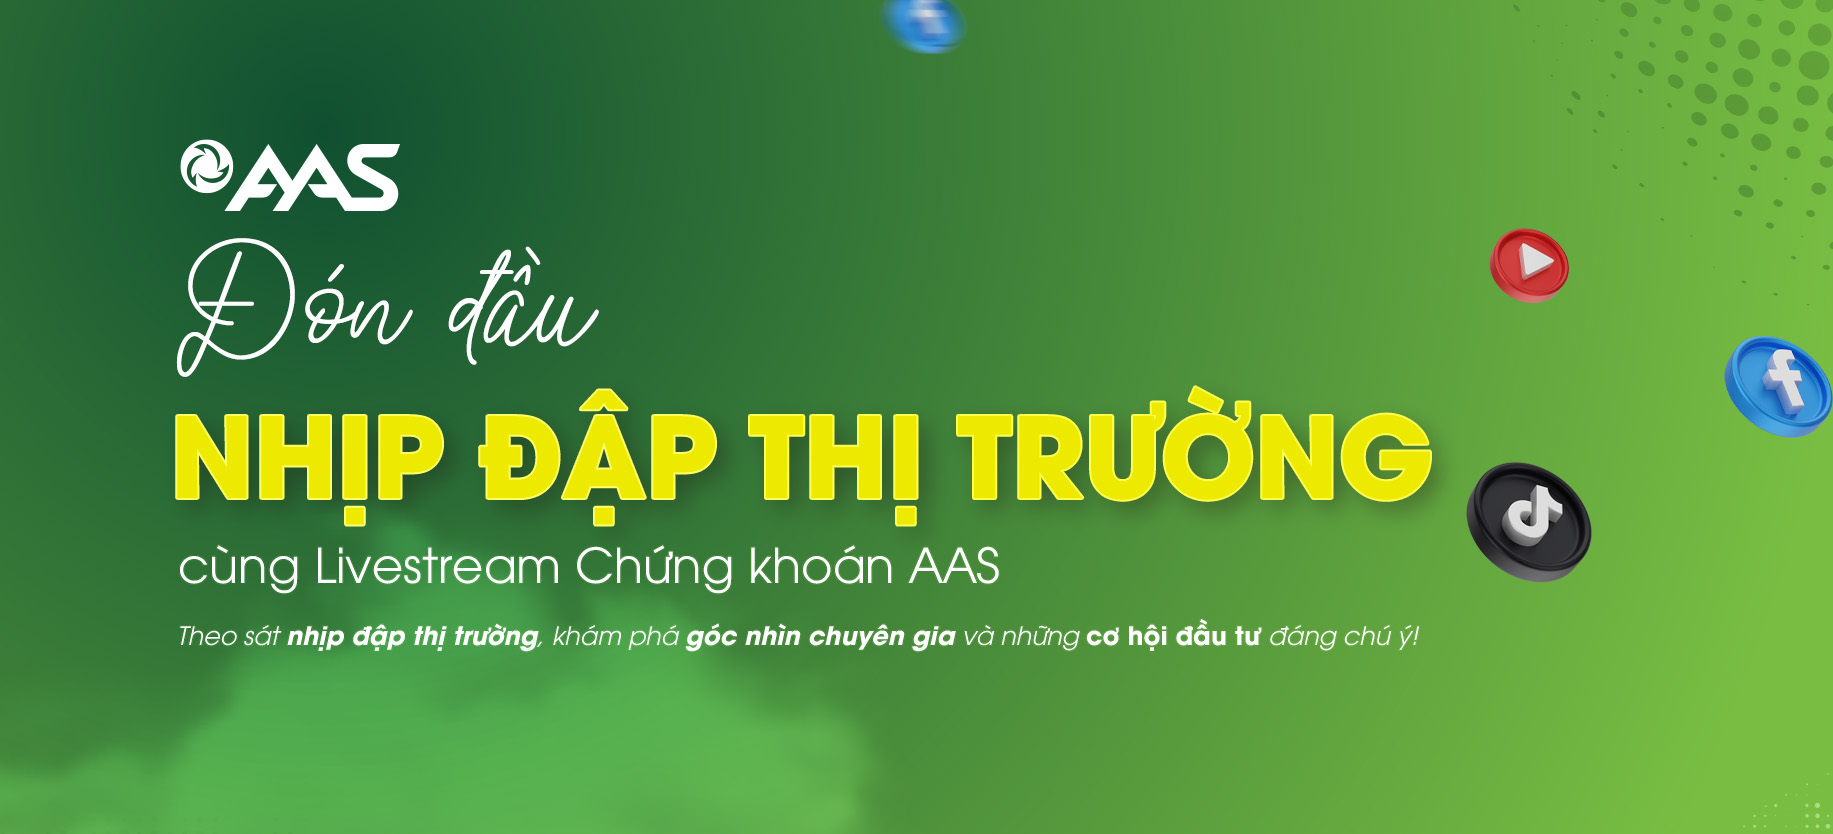
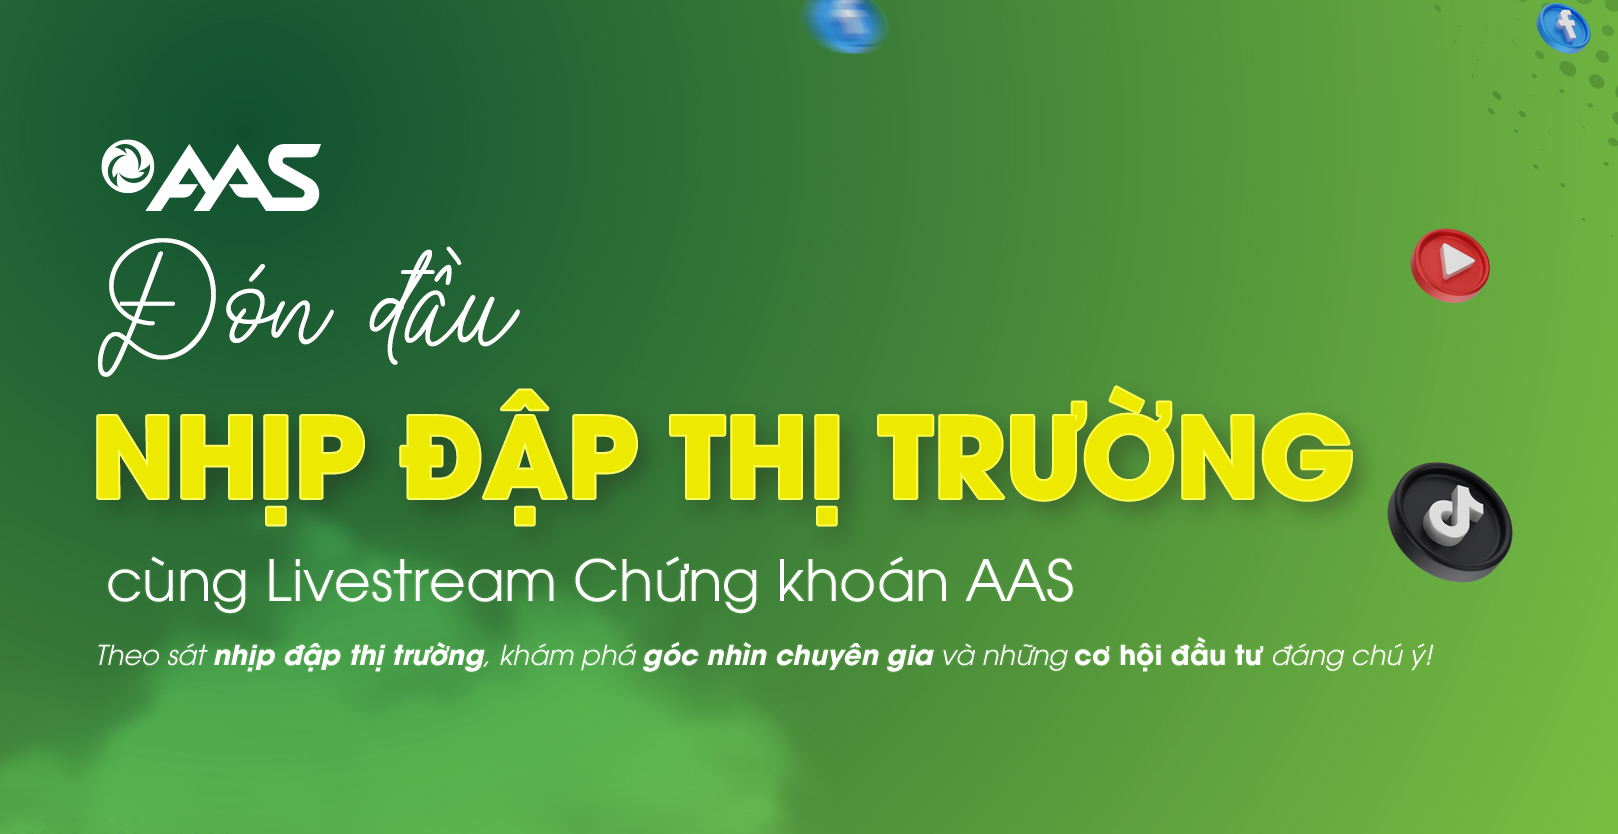
Update 25.05.2026 insert Pagination Dots

diff --git a/index.html b/index.html
@@ -13,7 +13,7 @@
 
     <title>AAS</title>
 </head>
-<body data-aos-easing="slide" data-aos-duration="800" data-aos-delay="0">
+<body data-aos-easing="slide" data-aos-duration="500" data-aos-delay="0">
 
     <!-- Phần Hero Banner: Ảnh bìa to trên cùng -->
     <!-- Đặt ảnh full width, hiển thị cover (object-fit) để không bị méo ảnh -->
@@ -340,11 +340,11 @@
         <div class="container">
 
             <div class="row justify-content-between align-items-center" style="margin: 1.5rem 0;">
-                <div class="col-lg-5 text-start">
-                    <h1 class="heading mb-0" data-aos="fade-up" data-aos-delay="100">
+                <div class="col-lg-5 text-start" style="align-content: center;">
+                    <h1 class="heading mb-0">
                         <span class="yellow-line">Xem</span> livestream
                     </h1>
-                    <div class="subtitle-nautigal" data-aos="fade-up" data-aos-delay="200">Nhận quà mỏi tay</div>
+                    <div class="subtitle-nautigal">Nhận quà mỏi tay</div>
                 </div>
                 <div class="col-lg-7">
                     <div class="img-wrap" data-aos="fade-left">
@@ -402,7 +402,7 @@
     <div class="section">
         <div class="container">
             <div class="row mb-3">
-                <div class="col-lg-12" data-aos="fade-up" data-aos-delay="0">
+                <div class="col-lg-12">
                         <h1 class="heading mb-3"><span class="yellow-line">Nhà đầu tư</span> nói gì về các phiên livestream của AAS?</h1>
                 </div>
             </div>
@@ -509,7 +509,8 @@
                         speed: 400,
                         controls: true,
                         controlsContainer: '#gift-nav',
-                        nav: false,
+                        nav: true,
+                        navPosition: 'bottom',
                         gutter: 16
                     });
                 }
@@ -526,7 +527,8 @@
                         speed: 400,
                         controls: true,
                         controlsContainer: '#talk-nav',
-                        nav: false,
+                        nav: true,
+                        navPosition: 'bottom',
                         gutter: 16
                     });
                 }

diff --git a/assets/css/custom.css b/assets/css/custom.css
@@ -558,3 +558,52 @@ body, h1, h2, h3, h4, h5, h6, p, a, span, button, input, select, textarea {
     transform: none !important;
     filter: none !important;
 }
+
+/* ========================================
+   TÙY CHỈNH PAGINATION DOTS (SLIDESHOW)
+   ======================================== */
+.tns-nav {
+    text-align: center;
+    margin-top: 15px;
+    margin-bottom: 5px;
+    position: relative;
+    z-index: 10;
+}
+.tns-nav button {
+    width: 10px;
+    height: 10px;
+    padding: 0;
+    margin: 0 5px;
+    border-radius: 50%;
+    background: #d3d3d3;
+    border: none;
+    transition: all 0.3s ease;
+}
+.tns-nav button.tns-nav-active {
+    background: #086408; /* Bắt màu xanh chủ đạo của theme */
+    width: 24px;         /* Tạo hiệu ứng viên nhộng khi active */
+    border-radius: 5px;
+}
+.tns-nav button:hover {
+    background: #0a7a0a;
+}
+
+/* Thu nhỏ Pagination Dots trên thiết bị di động */
+@media (max-width: 767.98px) {
+    .tns-nav button {
+        width: 6px;
+        height: 6px;
+        margin: 0 3px;
+    }
+    .tns-nav button.tns-nav-active {
+        width: 16px;
+    }
+}
+
+/* Căn giữa theo chiều dọc, ngang hàng với ảnh slide Quà tặng trên bản Web */
+@media (min-width: 992px) {
+    .section.bg-light .row.justify-content-between > .col-lg-5 {
+        /* Kéo khối chữ lên để bù trừ chiều cao của chấm điều hướng và mũi tên, giúp chữ nằm ngang bằng tâm bức ảnh */
+        transform: translateY(-45px);
+    }
+}
